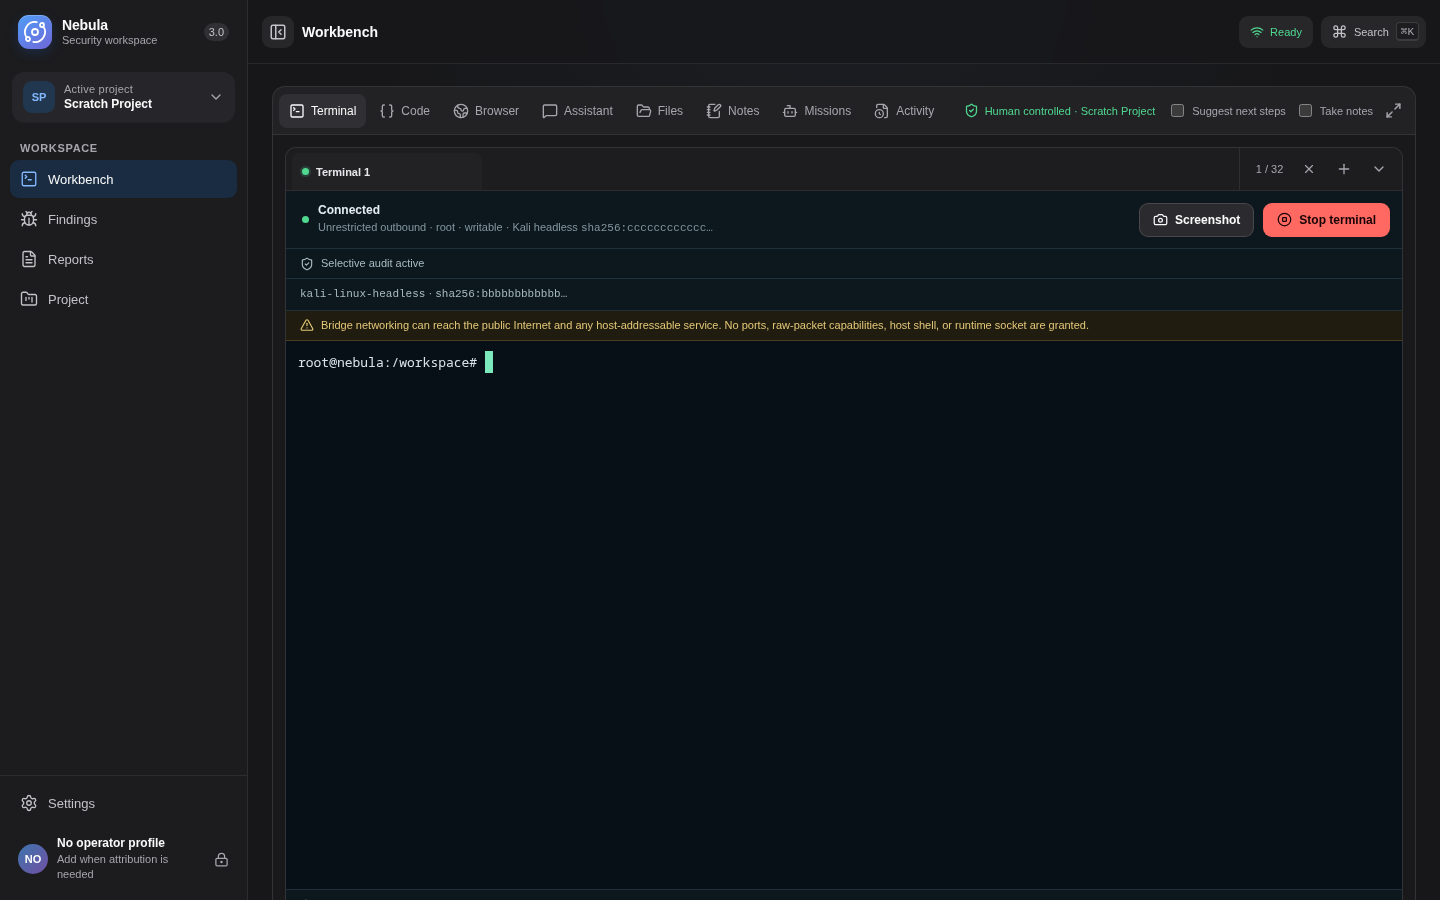
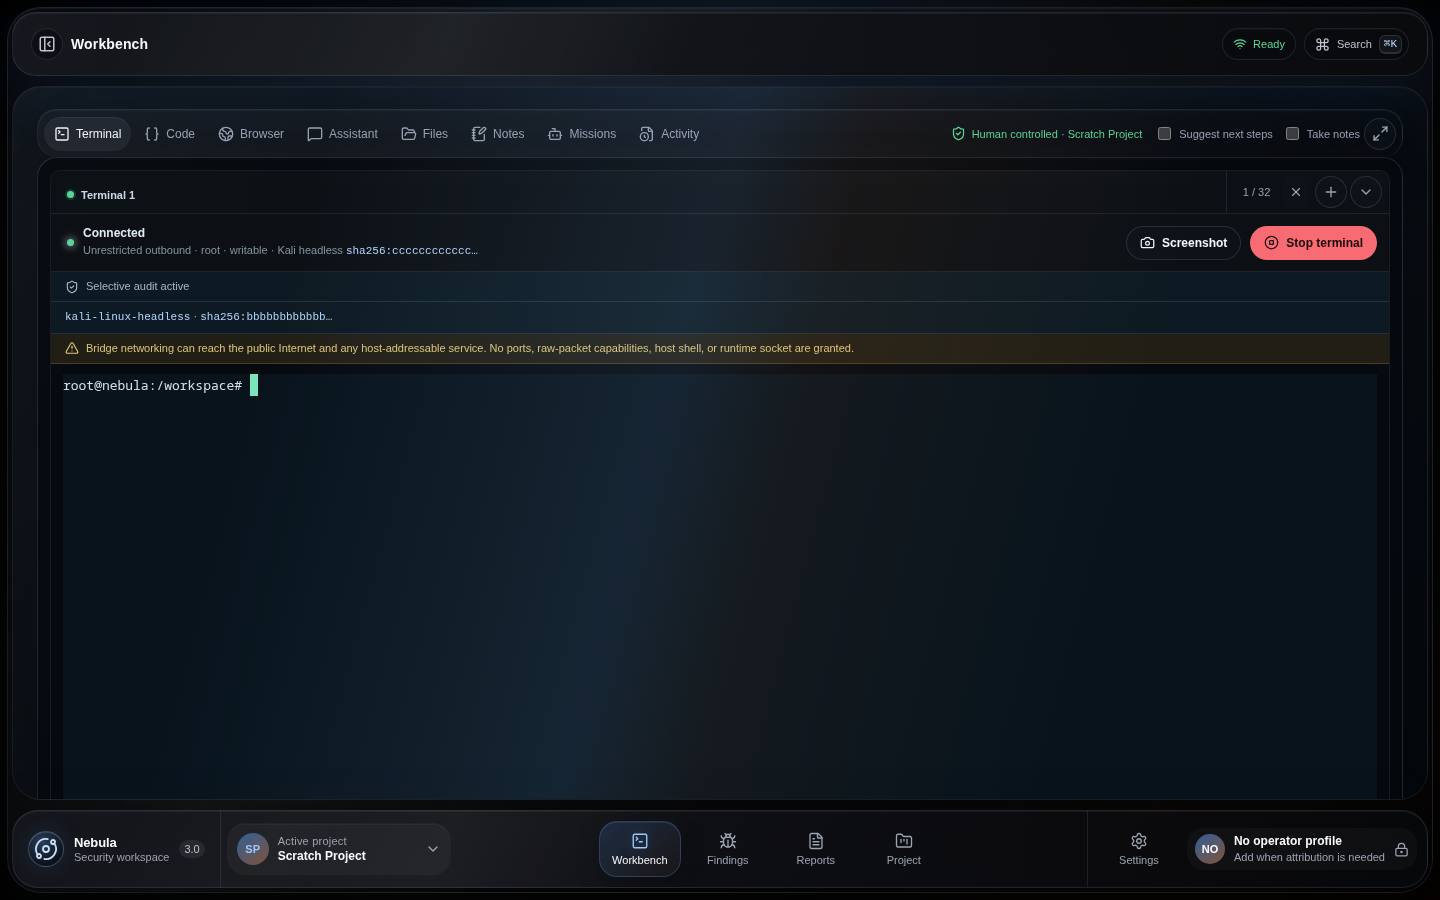
Show Zero Layer theme in README

diff --git a/README.md b/README.md
@@ -8,10 +8,10 @@ Nebula is an operator first, AI powered penetration testing platform that seeks 
 
 At its core it is driven by the human operator and assisted by AI agents.
 
-![Nebula 3.0 Workbench with a live contained terminal and operator safety controls](docs/images/nebula-3-workbench.png)
+![Nebula 3.0 Zero Layer Workbench with a live contained terminal and operator safety controls](docs/images/nebula-3-workbench.png)
 
-*Nebula 3.0 Workbench — a human-controlled security workspace with contained
-terminal access, evidence tools, reporting, and supervised automation.*
+*Nebula 3.0 Zero Layer Workbench — a human-controlled security workspace with
+contained terminal access, evidence tools, reporting, and supervised automation.*
 
 ## Release status
 
